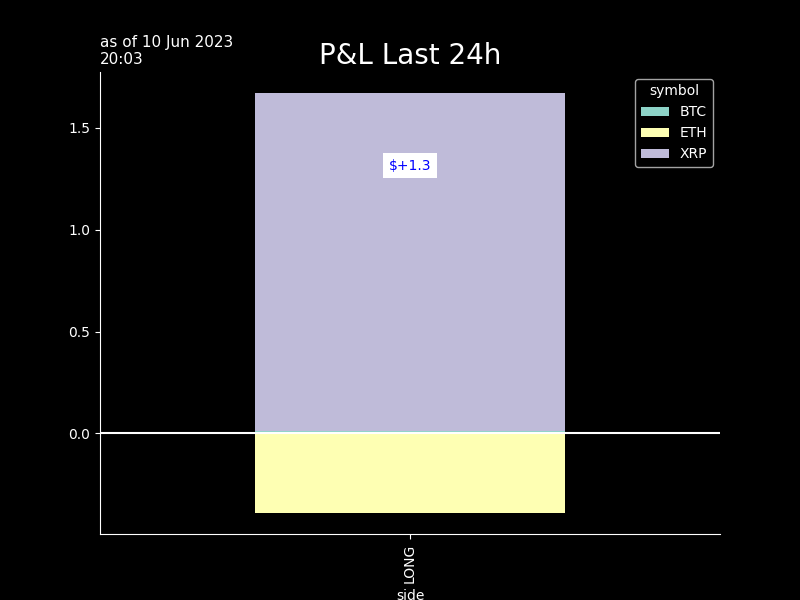
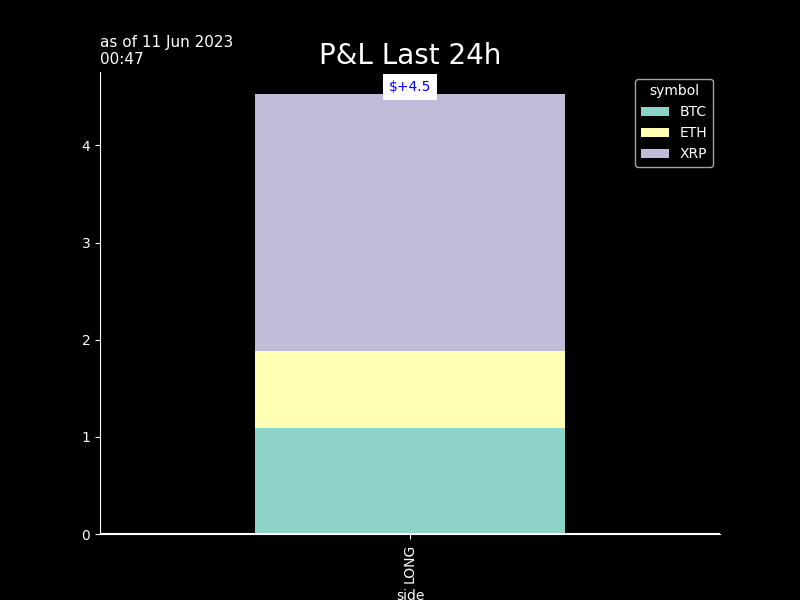
seb_commit

diff --git a/crypto/graphs/bt_trades_book.htmltrade_trades_book.html b/crypto/graphs/bt_trades_book.htmltrade_trades_book.html
@@ -37,55 +37,55 @@
   </thead>
   <tbody>
     <tr>
-      <th>ETHUSDT</th>
-      <td>1742.89</td>
-      <td>2023-06-10 18:34:13</td>
-      <td>0.096</td>
-      <td>$167.3</td>
+      <th>BTCUSDT</th>
+      <td>25827.8000</td>
+      <td>2023-06-10 23:47:15</td>
+      <td>-0.007</td>
+      <td>$-180.8</td>
       <td>$0.03</td>
       <td>1.6</td>
-      <td>0.0</td>
-      <td>1741.33500</td>
-      <td>2023-06-10 19:32</td>
+      <td>1.1</td>
+      <td>25846.75000</td>
+      <td>2023-06-11 00:45</td>
       <td>-0.1</td>
-      <td>-9.0</td>
-      <td>1742.81</td>
+      <td>-7.0</td>
+      <td>25832.3</td>
       <td>-0.0</td>
-      <td>-1.0</td>
+      <td>-2.0</td>
     </tr>
     <tr>
       <th>XRPUSDT</th>
-      <td>0.50</td>
-      <td>2023-06-10 18:34:13</td>
-      <td>335.100</td>
-      <td>$167.6</td>
+      <td>0.5079</td>
+      <td>2023-06-10 23:47:10</td>
+      <td>-335.100</td>
+      <td>$-170.2</td>
       <td>$0.03</td>
       <td>1.6</td>
+      <td>2.6</td>
+      <td>0.50885</td>
+      <td>2023-06-11 00:45</td>
+      <td>-0.3</td>
+      <td>-19.0</td>
+      <td>.5079</td>
       <td>0.0</td>
-      <td>0.49925</td>
-      <td>2023-06-10 19:32</td>
-      <td>-0.2</td>
-      <td>-15.0</td>
-      <td>.5</td>
-      <td>-0.0</td>
-      <td>-0.0</td>
+      <td>0.0</td>
     </tr>
     <tr>
-      <th>BTCUSDT</th>
-      <td>25672.40</td>
-      <td>2023-06-10 18:34:13</td>
-      <td>0.007</td>
-      <td>$179.7</td>
+      <th>ETHUSDT</th>
+      <td>1751.1400</td>
+      <td>2023-06-10 23:47:15</td>
+      <td>-0.096</td>
+      <td>$-168.1</td>
       <td>$0.03</td>
       <td>1.6</td>
-      <td>0.0</td>
-      <td>25659.55000</td>
-      <td>2023-06-10 19:32</td>
+      <td>0.8</td>
+      <td>1752.34500</td>
+      <td>2023-06-11 00:45</td>
       <td>-0.1</td>
-      <td>-5.0</td>
-      <td>25673.7</td>
-      <td>0.0</td>
-      <td>1.0</td>
+      <td>-7.0</td>
+      <td>1751.7</td>
+      <td>-0.1</td>
+      <td>-3.0</td>
     </tr>
   </tbody>
 </table>

diff --git a/crypto/graphs/bt_trades_pnlD_recap.htmltrade_trades_pnlD_recap.html b/crypto/graphs/bt_trades_pnlD_recap.htmltrade_trades_pnlD_recap.html
@@ -1,7 +1,7 @@
 <table border="1" class="dataframe">
   <thead>
     <tr style="text-align: right;">
-      <th>10 Jun 19:34</th>
+      <th>11 Jun 00:47</th>
       <th>realizedPnl</th>
       <th>PnLvsArrival</th>
       <th>PnLvsLast</th>
@@ -10,21 +10,21 @@
   <tbody>
     <tr>
       <th>in$</th>
-      <td>0.0</td>
-      <td>-0.5</td>
-      <td>0.0</td>
+      <td>4.5</td>
+      <td>-0.6</td>
+      <td>-0.1</td>
     </tr>
     <tr>
-      <th>in bp 514 traded</th>
-      <td>0 bp</td>
-      <td>-10 bp</td>
-      <td>0 bp</td>
+      <th>in bp 519 traded</th>
+      <td>87 bp</td>
+      <td>-11 bp</td>
+      <td>-2 bp</td>
     </tr>
     <tr>
-      <th>in bp 334 AUMs</th>
-      <td>0 bp</td>
-      <td>-15 bp</td>
-      <td>0 bp</td>
+      <th>in bp 339 AUMs</th>
+      <td>133 bp</td>
+      <td>-17 bp</td>
+      <td>-2 bp</td>
     </tr>
   </tbody>
 </table>

diff --git a/crypto/graphs/bt_trades_recap.htmltrade_trades_recap.html b/crypto/graphs/bt_trades_recap.htmltrade_trades_recap.html
@@ -9,32 +9,32 @@
   <tbody>
     <tr>
       <th>as of</th>
-      <td>10Jun 18:34&gt;&gt;18:34</td>
+      <td>10Jun 23:47&gt;&gt;23:47</td>
       <td>#trades: 3</td>
     </tr>
     <tr>
       <th>trade net</th>
-      <td>+515.0</td>
-      <td>+153.9%</td>
+      <td>-519.0</td>
+      <td>-152.8%</td>
     </tr>
     <tr>
       <th>trade gross</th>
-      <td>+515.0</td>
-      <td>+153.9%</td>
+      <td>+519.0</td>
+      <td>+152.8%</td>
     </tr>
     <tr>
       <th>BUY</th>
-      <td>+515.0</td>
-      <td>+153.9%</td>
-    </tr>
-    <tr>
-      <th>SELL</th>
       <td>+0.0</td>
       <td>+0.0%</td>
     </tr>
     <tr>
+      <th>SELL</th>
+      <td>-519.0</td>
+      <td>-152.8%</td>
+    </tr>
+    <tr>
       <th>fees</th>
-      <td>$ 0.082</td>
+      <td>$ 0.083</td>
       <td>1.6bp</td>
     </tr>
   </tbody>
